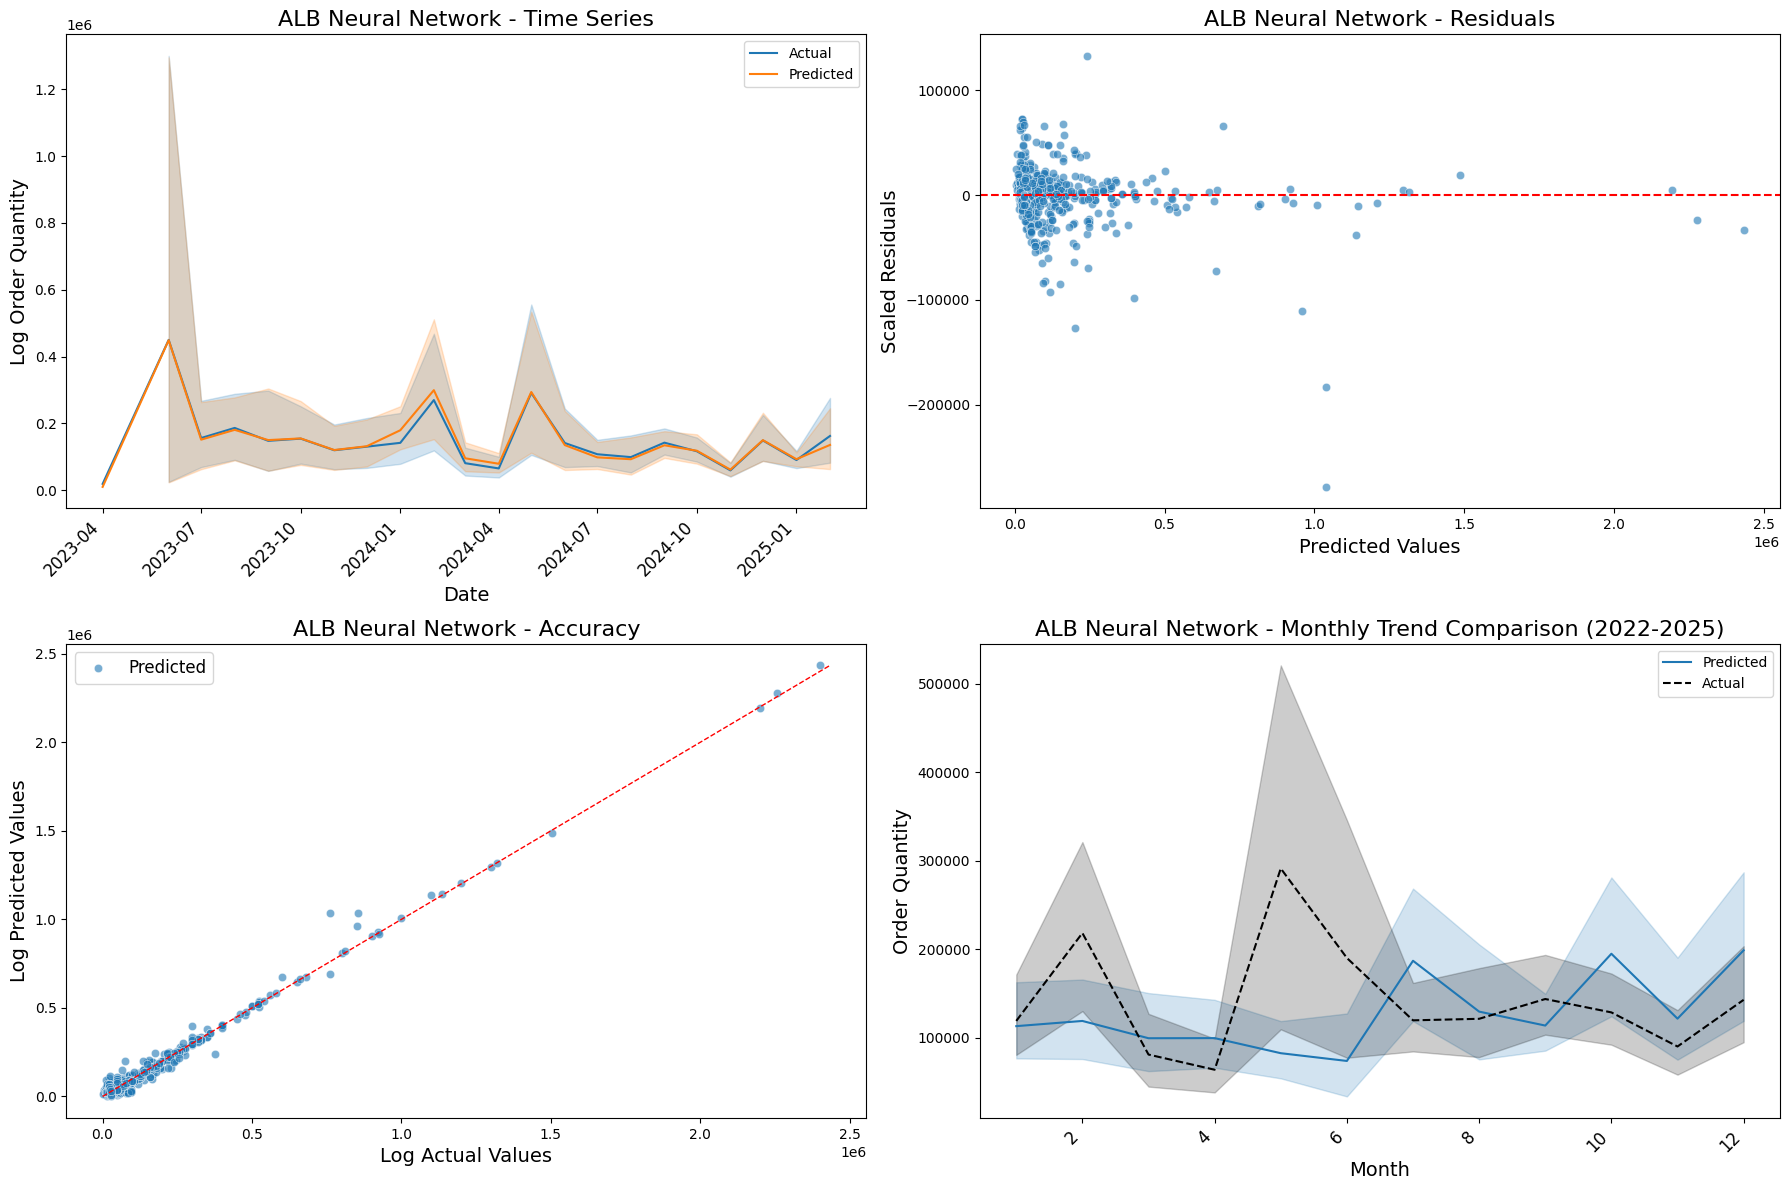
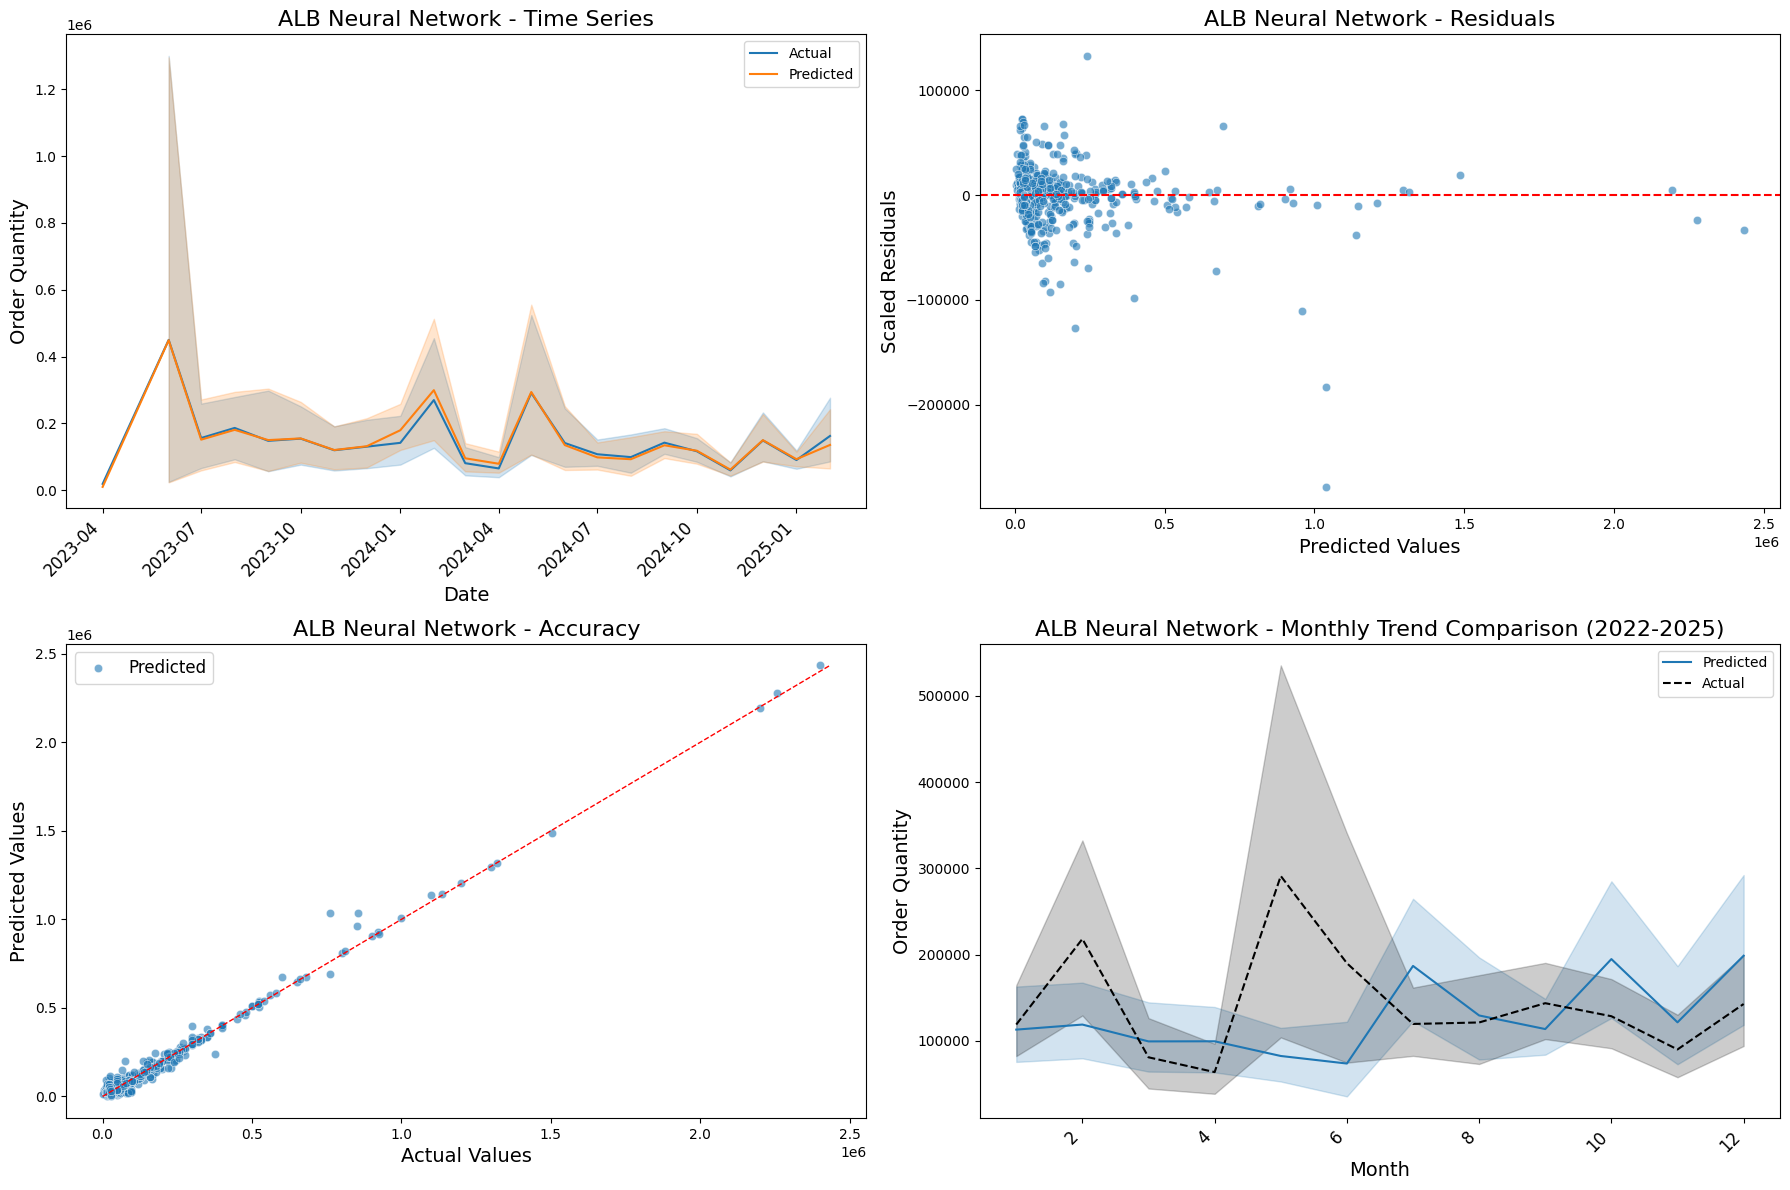
replacing imgs due to typos and capturing time series img for FRE

diff --git a/README.md b/README.md
@@ -13,4 +13,4 @@ SCM is a volitile and highly fluctuating industry, Catapult needs to have an acc
 
 Utilising historical data from product orders provided by Catapult with their datasets, ML can be incorporated to predict the future order quantities. 
 
-![FRE Customer predictions. (Cat's customer with the highest sold products)](/findings\images\custom_fre\neural_network\overall.png)
+![FRE Customer predictions. (Cat's customer with the highest sold products)](/findings\images\custom_fre\neural_network\time_series.png)
